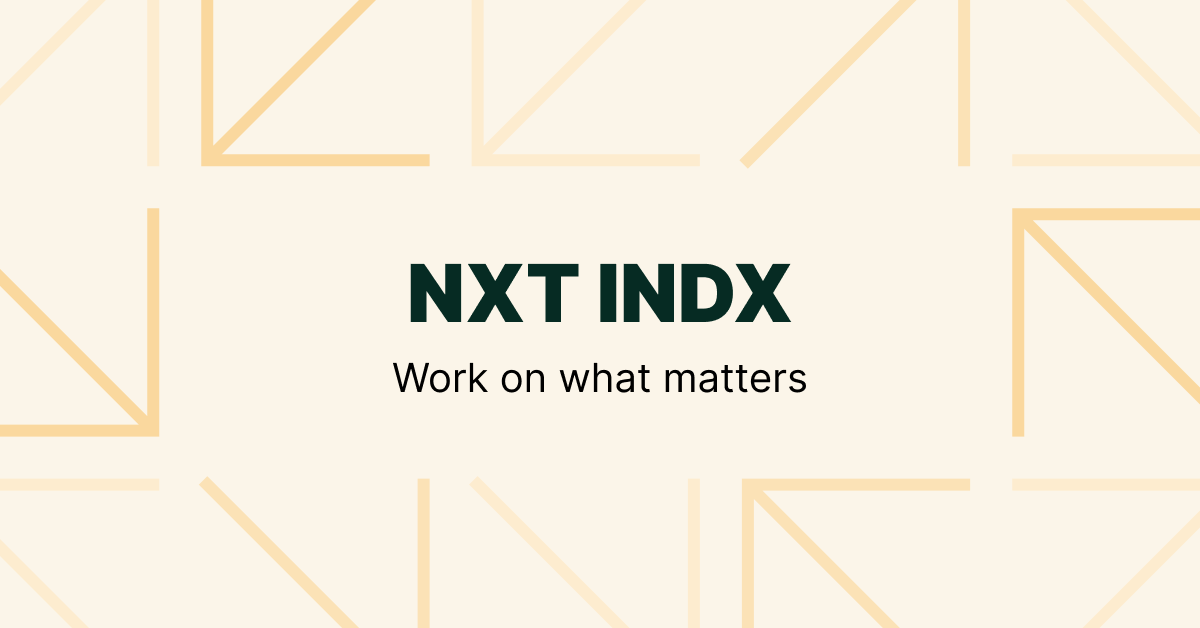
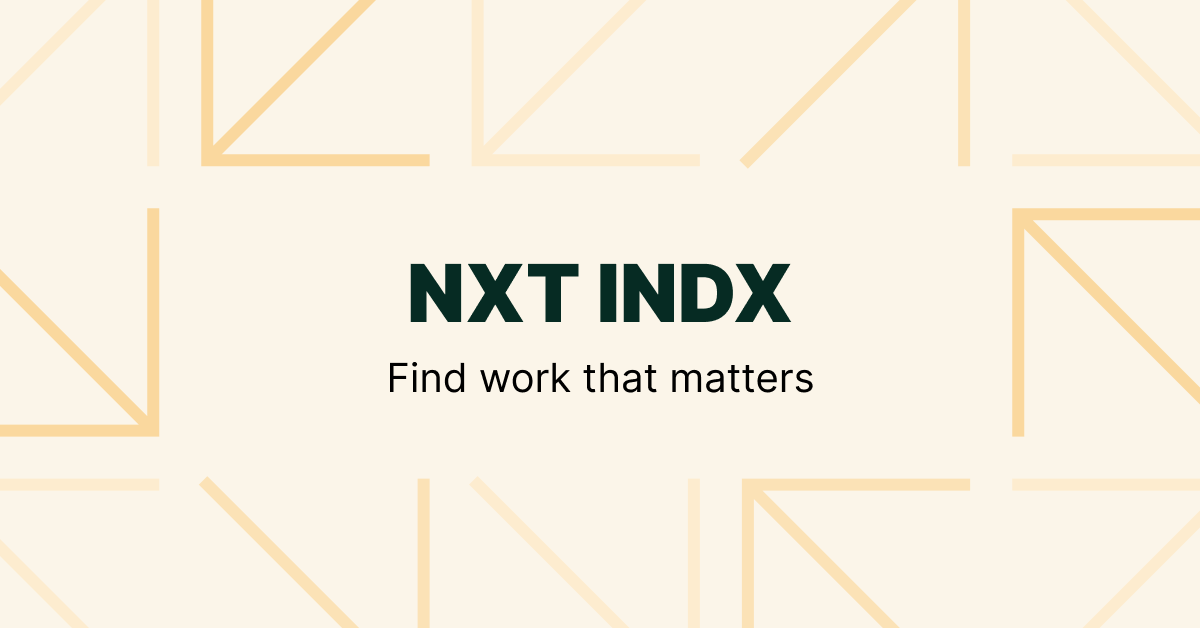
metatag fix

Changed region(s): [[0.3083, 0.5748, 0.6783, 0.6354]]

diff --git a/pages/_document.js b/pages/_document.js
@@ -39,10 +39,7 @@ class MyDocument extends Document {
           <link rel="mask-icon" href="/safari-pinned-tab.svg" color="#5bbad5" />
           <meta name="msapplication-TileColor" content="#da532c" />
           <meta name="theme-color" content="#ffffff" />
-          <meta
-            name="title"
-            content="NXT INDX: Impact Jobs Feed for the Next Generation"
-          />
+          <meta name="title" content="NXT INDX: Find work that matters" />
           <meta
             name="description"
             content="A curated job platform for meaningful work, that put people in a position to have positive impact on communities, society and the planet."
@@ -51,24 +48,27 @@ class MyDocument extends Document {
           <meta property="og:url" content="https://www.nxtindx.com/" />
           <meta
             property="og:title"
-            content="NXT INDX: Impact Jobs Feed for the Next Generation"
+            content="NXT INDX: Find work that matters"
           />
           <meta
             property="og:description"
             content="A curated job platform for meaningful work, that put people in a position to have positive impact on communities, society and the planet."
           />
-          <meta property="og:image" content="/social.png" />
+          <meta property="og:image" content="https://nxtindx.com/social.png" />
           <meta property="twitter:card" content="summary_large_image" />
           <meta property="twitter:url" content="https://www.nxtindx.com/" />
           <meta
             property="twitter:title"
-            content="NXT INDX: Impact Jobs Feed for the Next Generation"
+            content="NXT INDX: Find work that matters"
           />
           <meta
             property="twitter:description"
             content="A curated job platform for meaningful work, that put people in a position to have positive impact on communities, society and the planet."
           />
-          <meta property="twitter:image" content="/social.png"></meta>
+          <meta
+            property="twitter:image"
+            content="https://nxtindx.com/social.png"
+          ></meta>
         </Head>
         <body className="bg-light">
           <Main />
